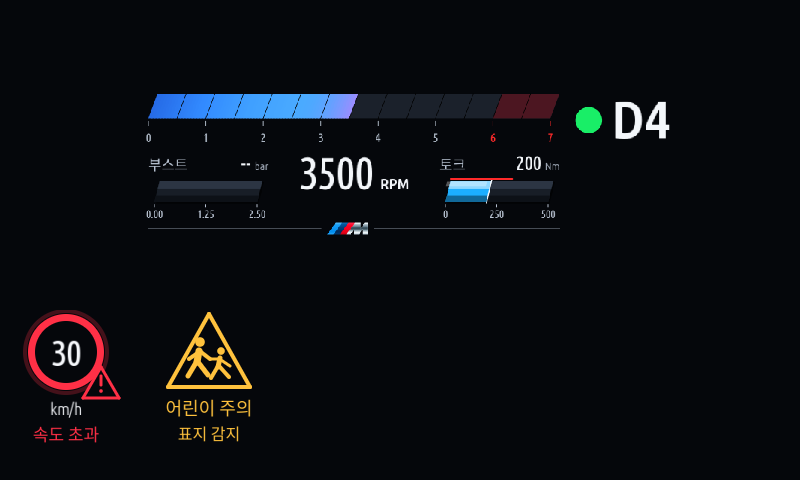
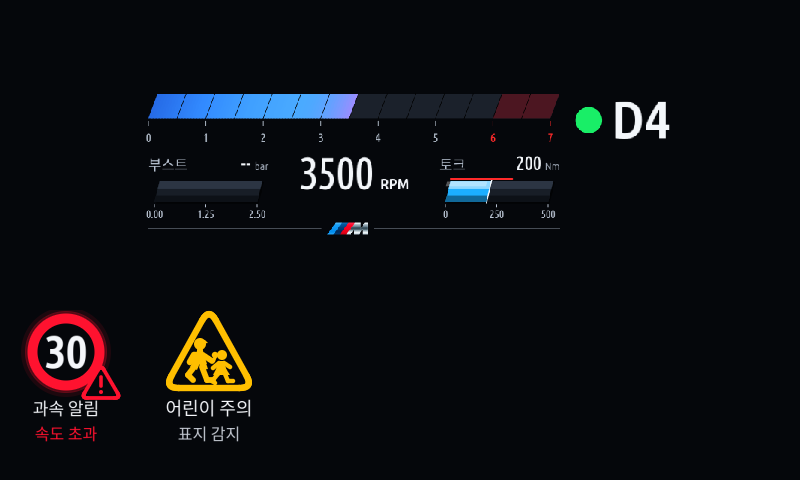
Cluster Redline 1.2.55: match sample sign weight and filled child silhouettes

Changed region(s): [[0.0312, 0.625, 0.1562, 0.9375], [0.1875, 0.625, 0.3125, 0.9375]]

diff --git a/apps/cluster_redline/traffic-draw.js b/apps/cluster_redline/traffic-draw.js
@@ -1,44 +1,52 @@
 'use strict';
-const {Canvas}=require('./kit/canvas');
+const {Canvas,ScaledCanvas}=require('./kit/canvas');
 const {tr}=require('./strings');
 const W=280,H=150;
-const RED='#ff3046',AMBER='#ffc23d',WHITE='#f5f7fb';
+const RED='#ff122f',AMBER='#ffbf00',WHITE='#f5f7fb';
+function curve(points,a,b,c){for(let i=1;i<=8;i++){const t=i/8,u=1-t;points.push([u*u*a[0]+2*u*t*b[0]+t*t*c[0],u*u*a[1]+2*u*t*b[1]+t*t*c[1]]);}}
+function triangle(cv,x,y,w,h,width,color){
+ const points=[[x+w*.42,y+h*.09]];
+ curve(points,points[0],[x+w*.5,y-h*.06],[x+w*.58,y+h*.09]);
+ points.push([x+w*.96,y+h*.84]);curve(points,points[points.length-1],[x+w*1.04,y+h],[x+w*.87,y+h]);
+ points.push([x+w*.13,y+h]);curve(points,points[points.length-1],[x-w*.04,y+h],[x+w*.04,y+h*.84]);
+ points.push(points[0]);cv.polyline(points,width,color);
+}
 function warning(cv,x,y){
- const p=[[x+18,y],[x,y+31],[x+36,y+31],[x+18,y]];
- cv.quad(p.slice(0,3),'#05070b');cv.polyline(p,3,RED);
- cv.line(x+18,y+9,x+18,y+18,3,RED);cv.circle(x+18,y+24,1.8,RED);
+ cv.quad([[x+18,y+1],[x-1,y+32],[x+37,y+32]],'#05070b');triangle(cv,x,y,36,31,3.8,RED);
+ cv.line(x+18,y+10,x+18,y+19,3.6,RED);cv.circle(x+18,y+25,2,RED);
 }
 function children(cv,x,y){
- cv.polyline([[x+44,y+2],[x+3,y+75],[x+85,y+75],[x+44,y+2]],4,AMBER);
- // Two walking children, drawn as vectors so the native HUD needs no image upload or font glyph.
- cv.circle(x+35,y+30,4.8,AMBER);
- cv.line(x+34,y+39,x+32,y+50,7,AMBER);
- cv.line(x+34,y+40,x+24,y+47,4,AMBER);
- cv.line(x+36,y+40,x+45,y+47,4,AMBER);
- cv.line(x+32,y+49,x+23,y+64,5,AMBER);
- cv.line(x+33,y+50,x+43,y+63,5,AMBER);
- cv.circle(x+56,y+39,3.8,AMBER);
- cv.line(x+55,y+46,x+53,y+55,5,AMBER);
- cv.line(x+54,y+47,x+45,y+47,3,AMBER);
- cv.line(x+56,y+48,x+65,y+54,3,AMBER);
- cv.line(x+53,y+54,x+46,y+66,4,AMBER);
- cv.line(x+54,y+54,x+64,y+65,4,AMBER);
+ triangle(cv,x+3,y+1,82,75,6.4,AMBER);
+ const q=p=>cv.quad(p.map(([a,b])=>[x+a,y+b]),AMBER),line=(a,b,c,d,w)=>cv.line(x+a,y+b,x+c,y+d,w,AMBER);
+ // Filled shirt, shorts, dress, ponytail and walking limbs: match the sample's silhouettes, not stick figures.
+ cv.circle(x+35,y+32,6,AMBER);q([[30,28],[40,28],[43,31],[35,32]]);
+ cv.roundRect(x+32,y+36,6,7,2,AMBER);q([[29,40],[38,39],[42,52],[27,52]]);
+ line(29,43,25,50,6.5);line(38,43,47,49,5.7);
+ q([[28,50],[35,51],[32,58],[25,55]]);q([[34,51],[41,51],[43,57],[36,58]]);
+ line(29,55,23,63,5.8);line(23,63,28,68,5.8);line(37,55,42,68,5.8);line(42,68,48,68,5.8);
+ cv.circle(x+57,y+43,5,AMBER);cv.circle(x+50,y+43,3.2,AMBER);q([[50,41],[53,42],[50,50],[46,51]]);
+ q([[53,49],[59,49],[62,60],[51,60]]);q([[52,55],[60,55],[65,63],[48,63]]);
+ line(54,51,48,56,4.5);line(59,51,65,55,4.5);
+ line(53,62,47,69,4.4);line(47,69,50,71,4.4);line(60,62,63,69,4.4);line(63,69,68,69,4.4);
 }
-function draw(state){
- const cv=new Canvas(W,H);cv.clear([0,0,0,0]);const v=state.traffic;
+function paint(cv,state){
+ const v=state.traffic;
  if(!v||!v.visible)return cv;
  if(v.limit!==null){
-  if(v.over)cv.arc(46,42,39,43,0,360,[255,48,70,65]);
-  cv.arc(46,42,31,38,0,360,RED);
-  cv.text(String(v.limit),46,56,36,WHITE,{align:'center',font:'num'});
-  cv.text('km/h',46,105,16,WHITE,{align:'center'});
-  if(v.over){warning(cv,63,57);cv.text(tr('Over limit'),46,131,17,RED,{align:'center',literal:true});}
+  if(v.over){cv.arc(46,42,40,45,0,360,[255,18,47,25]);cv.arc(46,42,38,41,0,360,[255,18,47,80]);}
+  cv.arc(46,42,28.5,38.5,0,360,RED);
+  cv.text(String(v.limit),46,58,45,WHITE,{align:'center',font:'bold'});
+  cv.text(tr(v.over?'Speed alert':'Speed limit'),46,105,17,WHITE,{align:'center',literal:true});
+  cv.text(v.over?tr('Over limit'):'km/h',46,130,16,v.over?RED:'#c4c9d2',{align:'center',literal:true});
+  if(v.over)warning(cv,63,57);
  }
  if(v.children){
   const x=v.limit===null?46:145;children(cv,x,2);
-  cv.text(tr('Children caution'),x+44,105,18,AMBER,{align:'center',literal:true});
-  cv.text(tr('Sign detected'),x+44,130,16,AMBER,{align:'center',literal:true});
+  cv.text(tr('Children caution'),x+44,105,18,WHITE,{align:'center',literal:true});
+  cv.text(tr('Sign detected'),x+44,130,16,'#c4c9d2',{align:'center',literal:true});
  }
  return cv;
 }
-module.exports={W,H,draw};
+function draw(state){return paint(new Canvas(W,H).clear([0,0,0,0]),state);}
+function drawSized(state,scale){const cv=new ScaledCanvas(W,H,scale);cv.clear([0,0,0,0]);paint(cv,state);return cv.canvas;}
+module.exports={W,H,draw,drawSized};

diff --git a/apps/cluster_redline/strings.js b/apps/cluster_redline/strings.js
@@ -7,6 +7,7 @@
 let t=v=>String(v),getLanguage=()=>'en';
 try{({t,getLanguage}=require('./kit/i18n'));}catch(e){/* host tests load sources without the kit */}
 const KO={
+ 'Speed limit':'제한속도','Speed alert':'과속 알림',
  'Children caution':'어린이 주의','Sign detected':'표지 감지',
  'Traffic sign alerts · experimental':'교통 표지 알림 · 시험 기능','Recognised speed limit':'인식 제한속도','Children sign':'어린이 주의 표지','Speed limit + children':'제한속도 + 어린이 주의','Children · sign detected':'어린이 주의 · 표지 감지','Over limit':'속도 초과',
  'Clock':'시계','Average speed':'평균 속도','Driving time':'주행 시간','Gauges only':'게이지 전용','Horizontal gauges only':'가로 게이지 전용','Speed limit data collection':'제한속도 데이터 수집','Hidden menu · records only while on':'숨김 메뉴 · 켜져 있을 때만 기록','Not available':'사용할 수 없음','Recording':'기록','On':'켜짐','Off':'꺼짐','lines':'줄','Catalog':'차량 카탈로그','speed limit names':'개 제한속도 항목','Not readable':'읽을 수 없음','Readable here':'이 앱에서 읽기','Vehicle speed':'차량 속도','Speed limit fields':'제한속도 값','Route guidance':'길안내','events':'개 이벤트','Stop recording':'기록 끄기','Start recording':'기록 켜기','Clear records':'기록 지우기','Close':'닫기','Query OK':'조회 성공','Trying queries':'조회 시도 중','Not connected':'연결 안 됨','Upright gauges on this layout: no clock.':'이 레이아웃은 세로 게이지라 시계는 표시되지 않습니다.','Clock time':'시계 시간','UTC+9 (Korea)':'UTC+9 (한국)','Head unit time':'헤드유닛 시간',

diff --git a/tests/cluster_redline/traffic-render.test.js b/tests/cluster_redline/traffic-render.test.js
@@ -15,7 +15,8 @@ try{
   assert(left>=0&&left+width<=this.w,'traffic caption clipped: '+value);
   return text.apply(this,arguments);
  };
- for(const limit of [null,30,50])trafficPainter.draw({traffic:{visible:true,limit,children:true,over:limit!==null}});
+ assert(fs.existsSync(root+'/kit/fonts/bold.json'),'wide bold speed numerals must be packaged');
+ for(const limit of [null,30,50])for(const over of [false,true])trafficPainter.draw({traffic:{visible:true,limit,children:true,over:limit!==null&&over}});
 }finally{Canvas.prototype.text=text;}
 const scene=HUD.createCache();
 const image=HUD.draw(Object.assign({},base,{renderCache:scene}));
@@ -33,5 +34,10 @@ if(process.argv[3]){
  for(const [name,v] of [['speed',{visible:true,limit:30,children:false,over:false}],['overspeed',{visible:true,limit:30,children:false,over:true}],['children',{visible:true,limit:null,children:true,over:false}]]){
   base.traffic=v;const im=new Canvas(800,480);im.clear('#05070b');im.blit(HUD.draw(base),0,0);fs.writeFileSync(path.join(process.argv[3],'hud-traffic-'+name+'.png'),im.png());
  }
+ const detail=new Canvas(960,340);detail.clear('#05070b');
+ [{visible:true,limit:30,children:false,over:false},{visible:true,limit:30,children:false,over:true},{visible:true,limit:null,children:true,over:false}].forEach((v,i)=>{
+  const tile=new Canvas(280,300);tile.clear([0,0,0,0]);tile.blit(trafficPainter.drawSized({traffic:v},2),v.limit===null?-40:48,0);detail.blit(tile,20+i*320,20);
+ });
+ fs.writeFileSync(path.join(process.argv[3],'traffic-icons-detail.png'),detail.png());
 }
 console.log('PASS traffic HUD settings, bounds, stable cache keys and expired-alert pixel removal');

diff --git a/docs/HUD-TRAFFIC.ko.md b/docs/HUD-TRAFFIC.ko.md
@@ -1,10 +1,10 @@
-# HUD 교통 표지 알림 · 1.2.54 시험 기능
+# HUD 교통 표지 알림 · 1.2.55 시험 기능
 
 첨부된 두 번째 로그에서 수신한 제한속도·어린이 주의 표지 데이터를 사용하는 선택 기능입니다. 실차 HUD 동작은 아직 검증 전이며 기본값은 꺼짐입니다. 공식 스쿨존 경계나 지도 기반 카메라 단속 정보를 제공하는 기능이 아닙니다.
 
 ## 켜는 방법
 
-1. MGU Store 소스 `jaimeen77-cmyk/apps`의 main을 새로고침하고 **1.2.54**으로 업데이트 설치합니다. 한국어·영어 모두 지원합니다.
+1. MGU Store 소스 `jaimeen77-cmyk/apps`의 main을 새로고침하고 **1.2.55**으로 업데이트 설치합니다. 한국어·영어 모두 지원합니다.
 2. **HUD 표시 설정 → 교통 표지 알림 · 시험 기능 → 제한속도 + 어린이 주의**를 선택합니다. 각각만 켜거나 끌 수도 있습니다. 숨김 메뉴의 로그 수집은 켤 필요가 없습니다.
 3. 같은 HUD 탭의 **모든 모드 RPM 표시** 또는 **스포츠 모드 RPM 표시**를 **앱 표시**로 선택합니다. 기존 Redline HUD가 표시되는 모드에서만 알림이 함께 나옵니다. 순정 HUD를 선택한 모드나 앱 정지 상태에서는 표시되지 않습니다.
 4. 확인된 표지 입력이 들어오면 HUD 왼쪽 아래에 인식 제한속도를 표시합니다. 인식 제한속도보다 3km/h 넘는 값이 1초간 유지되면 숫자·원과 ‘속도 초과’를 빨간색으로 강조합니다. 1km/h 초과 이하로 내려가면 강조를 지웁니다. 소리는 내지 않습니다.
@@ -12,7 +12,11 @@
 
 ![HUD 시안](../screenshots/guide/hud-traffic-alerts.png)
 
-1.2.54에서는 제한속도를 빨간 원형 표지로, 과속을 작은 경고 삼각형으로, 어린이 주의를 두 어린이가 걷는 노란 삼각형으로 표시합니다. 아래는 실제 설정 메뉴를 렌더링한 화면입니다.
+시안의 굵은 원·큰 흰색 숫자·둥근 삼각형·채워진 어린이 실루엣을 반영한 확대 그림입니다. 실제 HUD와 같은 코드로 그리며, 생성 이미지 파일을 HUD에 덮어씌우는 방식은 아닙니다.
+
+![실제 아이콘 확대](../screenshots/guide/traffic-icons-detail.png)
+
+1.2.55에서는 제한속도를 빨간 원형 표지로, 과속을 작은 경고 삼각형으로, 어린이 주의를 두 어린이가 걷는 노란 삼각형으로 표시합니다. 아래는 실제 설정 메뉴를 렌더링한 화면입니다.
 
 ![HUD 설정](../screenshots/guide/settings-traffic.png)
 

diff --git a/README.md b/README.md
@@ -4,7 +4,7 @@
 
 **Made by 잼님 (jaimeen77)** · Download: [github.com/jaimeen77-cmyk/apps](https://github.com/jaimeen77-cmyk/apps) · MGU Store source: `jaimeen77-cmyk/apps` (branch `main`) · Blog: [blog.naver.com/jaimeen77](https://blog.naver.com/jaimeen77) · Korean guide: [설치·사용 설명서](docs/CLUSTER-REDLINE.ko.md)
 
-**Cluster Redline 1.2.54**: cluster released while guidance shows on the HUD (Waze included), tuned HUD layout defaults, outside temperature fix (1.2.8: Redline layouts element by element, Korean time for the clock). **iDrive Circuit 1.0.0** and **Storage 1.0.4** are also available.
+**Cluster Redline 1.2.55**: cluster released while guidance shows on the HUD (Waze included), tuned HUD layout defaults, outside temperature fix (1.2.8: Redline layouts element by element, Korean time for the clock). **iDrive Circuit 1.0.0** and **Storage 1.0.4** are also available.
 
 [한국어](README.ko.md)
 
@@ -15,7 +15,7 @@
 | Use Storage | [Storage](apps/storage/README.md) | [저장공간](apps/storage/README.ko.md) |
 | Use Circuit | [Circuit](apps/idrive_circuit/README.md) | [회로 퍼즐](apps/idrive_circuit/README.ko.md) |
 
-Add MGU Store source **`jaimeen77-cmyk/apps`**, branch **`main`**, refresh and choose Korean or English. Redline requires **`cluster-render` 0.4.0+**. Update existing installs in Installed and check **v1.2.54** in the app. Stop and disable auto-start in an unused language edition if both are installed.
+Add MGU Store source **`jaimeen77-cmyk/apps`**, branch **`main`**, refresh and choose Korean or English. Redline requires **`cluster-render` 0.4.0+**. Update existing installs in Installed and check **v1.2.55** in the app. Stop and disable auto-start in an unused language edition if both are installed.
 
 | HUD circle | HUD bar |
 |---|---|

diff --git a/docs/CLUSTER-REDLINE.ko.md b/docs/CLUSTER-REDLINE.ko.md
@@ -1,4 +1,4 @@
-# 계기판 레드라인 1.2.54 설치·사용 설명서
+# 계기판 레드라인 1.2.55 설치·사용 설명서
 
 새로운 [HUD 교통 표지 알림 · 시험 기능](HUD-TRAFFIC.ko.md)은 HUD 설정에서 선택할 수 있습니다. 기본값은 꺼짐이며, 일부 인식 제한속도와 어린이 주의 표지만 지원합니다.
 
@@ -32,7 +32,7 @@
 4. **새로고침(Check now)** 을 누릅니다. Offline으로 나오면 인터넷 연결부터 확인합니다.
 5. 목록에서 **계기판 레드라인 (한국어)** 를 고르고 **Install** 을 누릅니다.
 6. `cluster-render` 등 필요한 도구 설치 안내가 나오면 그대로 진행합니다. 재시작 안내가 나오면 설치가 끝난 뒤 따릅니다.
-7. 차량 앱 목록에서 **계기판 레드라인** 을 엽니다. 화면 오른쪽 위에 **v1.2.54** 이 보이면 설치가 끝난 것입니다.
+7. 차량 앱 목록에서 **계기판 레드라인** 을 엽니다. 화면 오른쪽 위에 **v1.2.55** 이 보이면 설치가 끝난 것입니다.
 
 > 한국어판과 English판은 서로 다른 앱입니다. 둘 다 설치했다면 쓰지 않는 쪽에서 **앱 실행 꺼짐 + 앱 자동 켜짐 꺼짐** 으로 두세요. 두 앱이 동시에 화면을 차지하려고 다투지 않게 하기 위함입니다.
 

diff --git a/docs/INSTALL.ko.md b/docs/INSTALL.ko.md
@@ -27,8 +27,8 @@ MGU Store 자체 설치는 [개발자 안내](https://github.com/robertnisipeanu
 
 | 표시 이름 | 설치 ID | 버전 |
 |---|---|---|
-| 계기판 레드라인 (한국어) | `cluster_redline` | 1.2.54 |
-| Cluster Redline (English) | `cluster_redline_en` | 1.2.54 |
+| 계기판 레드라인 (한국어) | `cluster_redline` | 1.2.55 |
+| Cluster Redline (English) | `cluster_redline_en` | 1.2.55 |
 | 아이드라이브 회로 (한국어) | `idrive_circuit` | 1.0.0 |
 | iDrive Circuit (English) | `idrive_circuit_en` | 1.0.0 |
 
@@ -36,7 +36,7 @@ MGU Store 자체 설치는 [개발자 안내](https://github.com/robertnisipeanu
 
 ## 레드라인 첫 설정
 
-1. 앱 위쪽의 버전이 **v1.2.54** 이상인지 확인합니다.
+1. 앱 위쪽의 버전이 **v1.2.55** 이상인지 확인합니다.
 2. **기본설정 → 차량 프리셋·단위·변속 알림 RPM**을 선택합니다.
 3. **HUD 표시 설정 / CLUSTER 표시 설정**에서 원하는 모드의 RPM 출력을 **레드라인 앱**으로 선택합니다. 기본 HUD RPM은 순정입니다.
 4. **앱 켜기**로 현재 출력을 시작합니다. 자동 실행을 원하면 **앱 자동 켜짐**도 켭니다.

diff --git a/CHANGELOG.md b/CHANGELOG.md
@@ -67,6 +67,11 @@ Version history is kept here. For current usage, see [Cluster Redline](docs/CLUS
 
 ## Cluster Redline
 
+### 1.2.55
+
+- Bring traffic icons closer to the design sample: thicker red speed-sign ring, larger wide bold white numbers, a rounded overspeed triangle, and a thick rounded amber triangle with filled shirt/shorts/dress/ponytail silhouettes instead of stick figures. White headings and grey sublabels follow the sample's hierarchy.
+- Keep icons as clean antialiased vector drawing; no generated-image background/noise or decoder is shipped. Add an enlarged preview drawn by the same painter and bilingual caption/font checks. Traffic inputs, timing and supported speeds are unchanged.
+
 ### 1.2.54
 
 - Replace the traffic-alert text markers with HUD vector icons: red-ring speed sign, overspeed warning triangle, and an amber children-crossing triangle containing two walking children. Normal speed numbers stay white for contrast. There is no icon image upload or new vehicle command.

diff --git a/README.ko.md b/README.ko.md
@@ -23,7 +23,7 @@
 
 ---
 
-**계기판 레드라인 1.2.54** · [HUD 제한속도·어린이 주의 시험 기능](docs/HUD-TRAFFIC.ko.md) · HUD에 길안내가 뜨면 클러스터 양보(웨이즈 포함), HUD 레이아웃 기본 위치·크기 조정, 외기 온도 수정 (1.2.8: Redline 레이아웃 요소별 조절, 시계 한국 시간). **아이드라이브 회로 1.0.0**, **저장공간 1.0.4**도 함께 제공합니다.
+**계기판 레드라인 1.2.55** · [HUD 제한속도·어린이 주의 시험 기능](docs/HUD-TRAFFIC.ko.md) · HUD에 길안내가 뜨면 클러스터 양보(웨이즈 포함), HUD 레이아웃 기본 위치·크기 조정, 외기 온도 수정 (1.2.8: Redline 레이아웃 요소별 조절, 시계 한국 시간). **아이드라이브 회로 1.0.0**, **저장공간 1.0.4**도 함께 제공합니다.
 
 [English](README.md)
 

diff --git a/apps/cluster_redline/README.md b/apps/cluster_redline/README.md
@@ -1,4 +1,4 @@
-# Cluster Redline 1.2.54
+# Cluster Redline 1.2.55
 
 **Experimental HUD traffic-sign alerts**: HUD settings → Traffic sign alerts → Speed limit + children. Off by default; visible only with the selected Redline HUD face. A fresh camera KM_H speed sign must agree with the observed TSR class (only the recorded 10/30/40/50 pairs). Stale/invalid/unavailable inputs hide the alert. Overspeed highlight uses +3 km/h for 1 second and clears at +1; children-sign detection lasts 6 seconds with a 30-second repeat cooldown. No sound, school-zone boundaries, enforcement-camera alerts or map distance. The badge is fixed at the lower left. Vehicle validation is still pending. [Detailed Korean guide](../../docs/HUD-TRAFFIC.ko.md)
 

diff --git a/apps/cluster_redline/README.ko.md b/apps/cluster_redline/README.ko.md
@@ -1,4 +1,4 @@
-# 계기판 레드라인 1.2.54
+# 계기판 레드라인 1.2.55
 
 **HUD 교통 표지 알림(시험 기능)**: HUD 설정에서 ‘교통 표지 알림 → 제한속도 + 어린이 주의’를 선택합니다. 기본 꺼짐이며 기존 앱 HUD가 표시되는 모드에서만 동작합니다. 이번 차량 로그로 확인한 일부 제한속도와 어린이 주의 표지를 사용합니다. [설정·지원 범위](../../docs/HUD-TRAFFIC.ko.md)
 

diff --git a/docs/CLUSTER-REDLINE.md b/docs/CLUSTER-REDLINE.md
@@ -1,4 +1,4 @@
-# Cluster Redline 1.2.54 user guide
+# Cluster Redline 1.2.55 user guide
 
 New: **HUD settings → Traffic sign alerts · experimental** (off by default). Recognised speed limit and children-sign alerts use validated, fresh camera/TSR samples only. The initial prototype supports the recorded 10/30/40/50 km/h pairs and no school-zone boundary/distance. [Support and limitations](HUD-TRAFFIC.ko.md).
 
